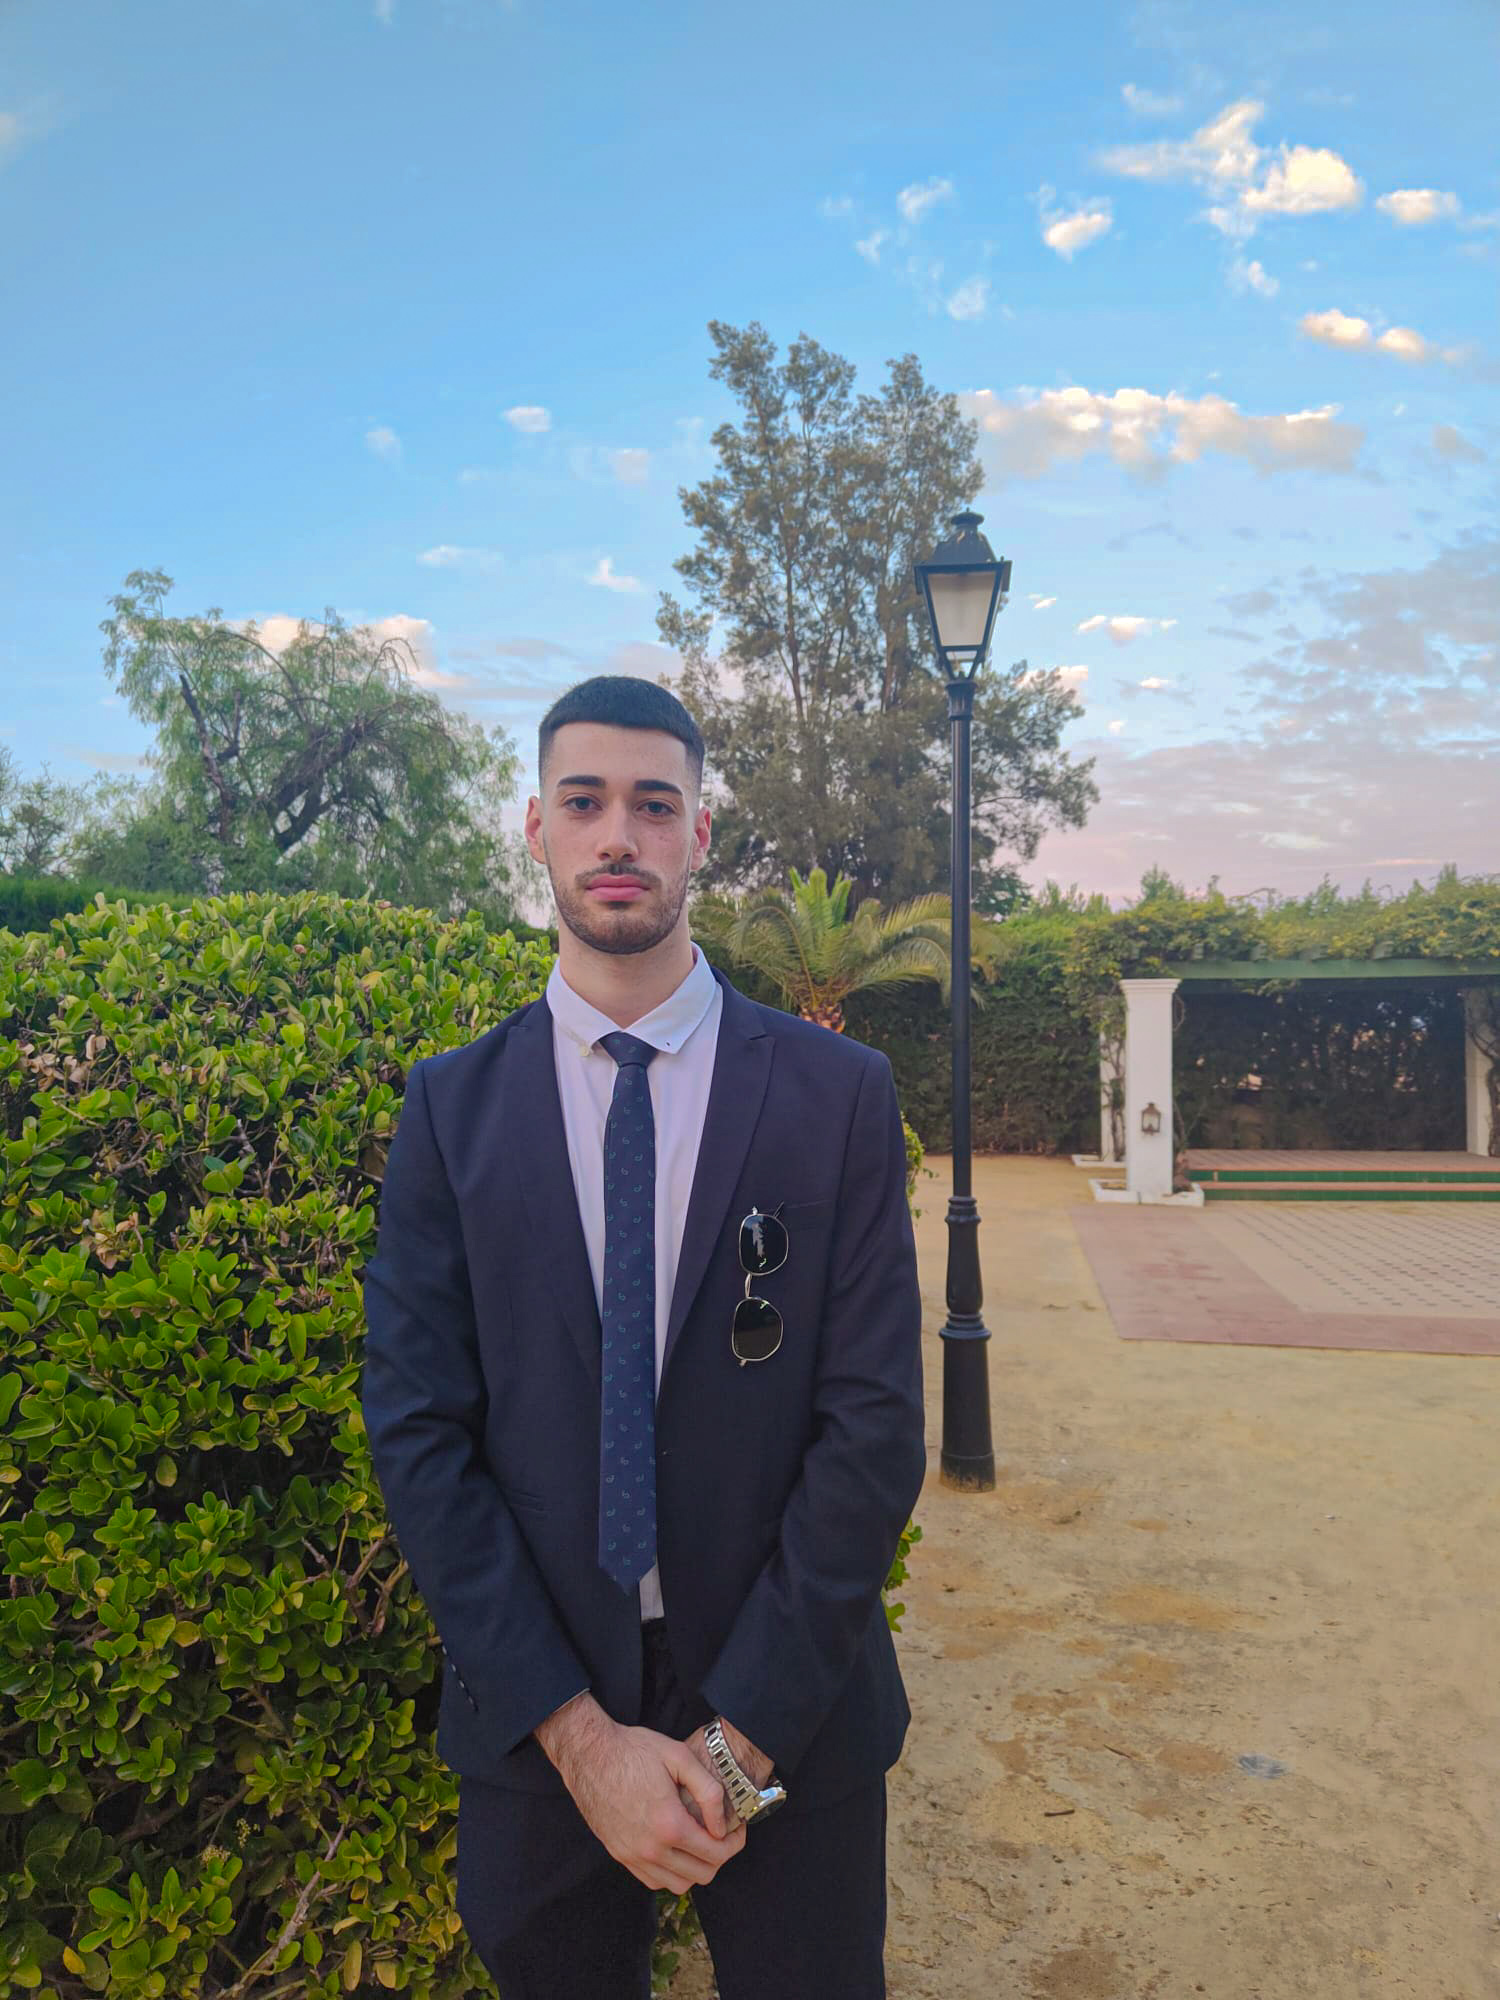
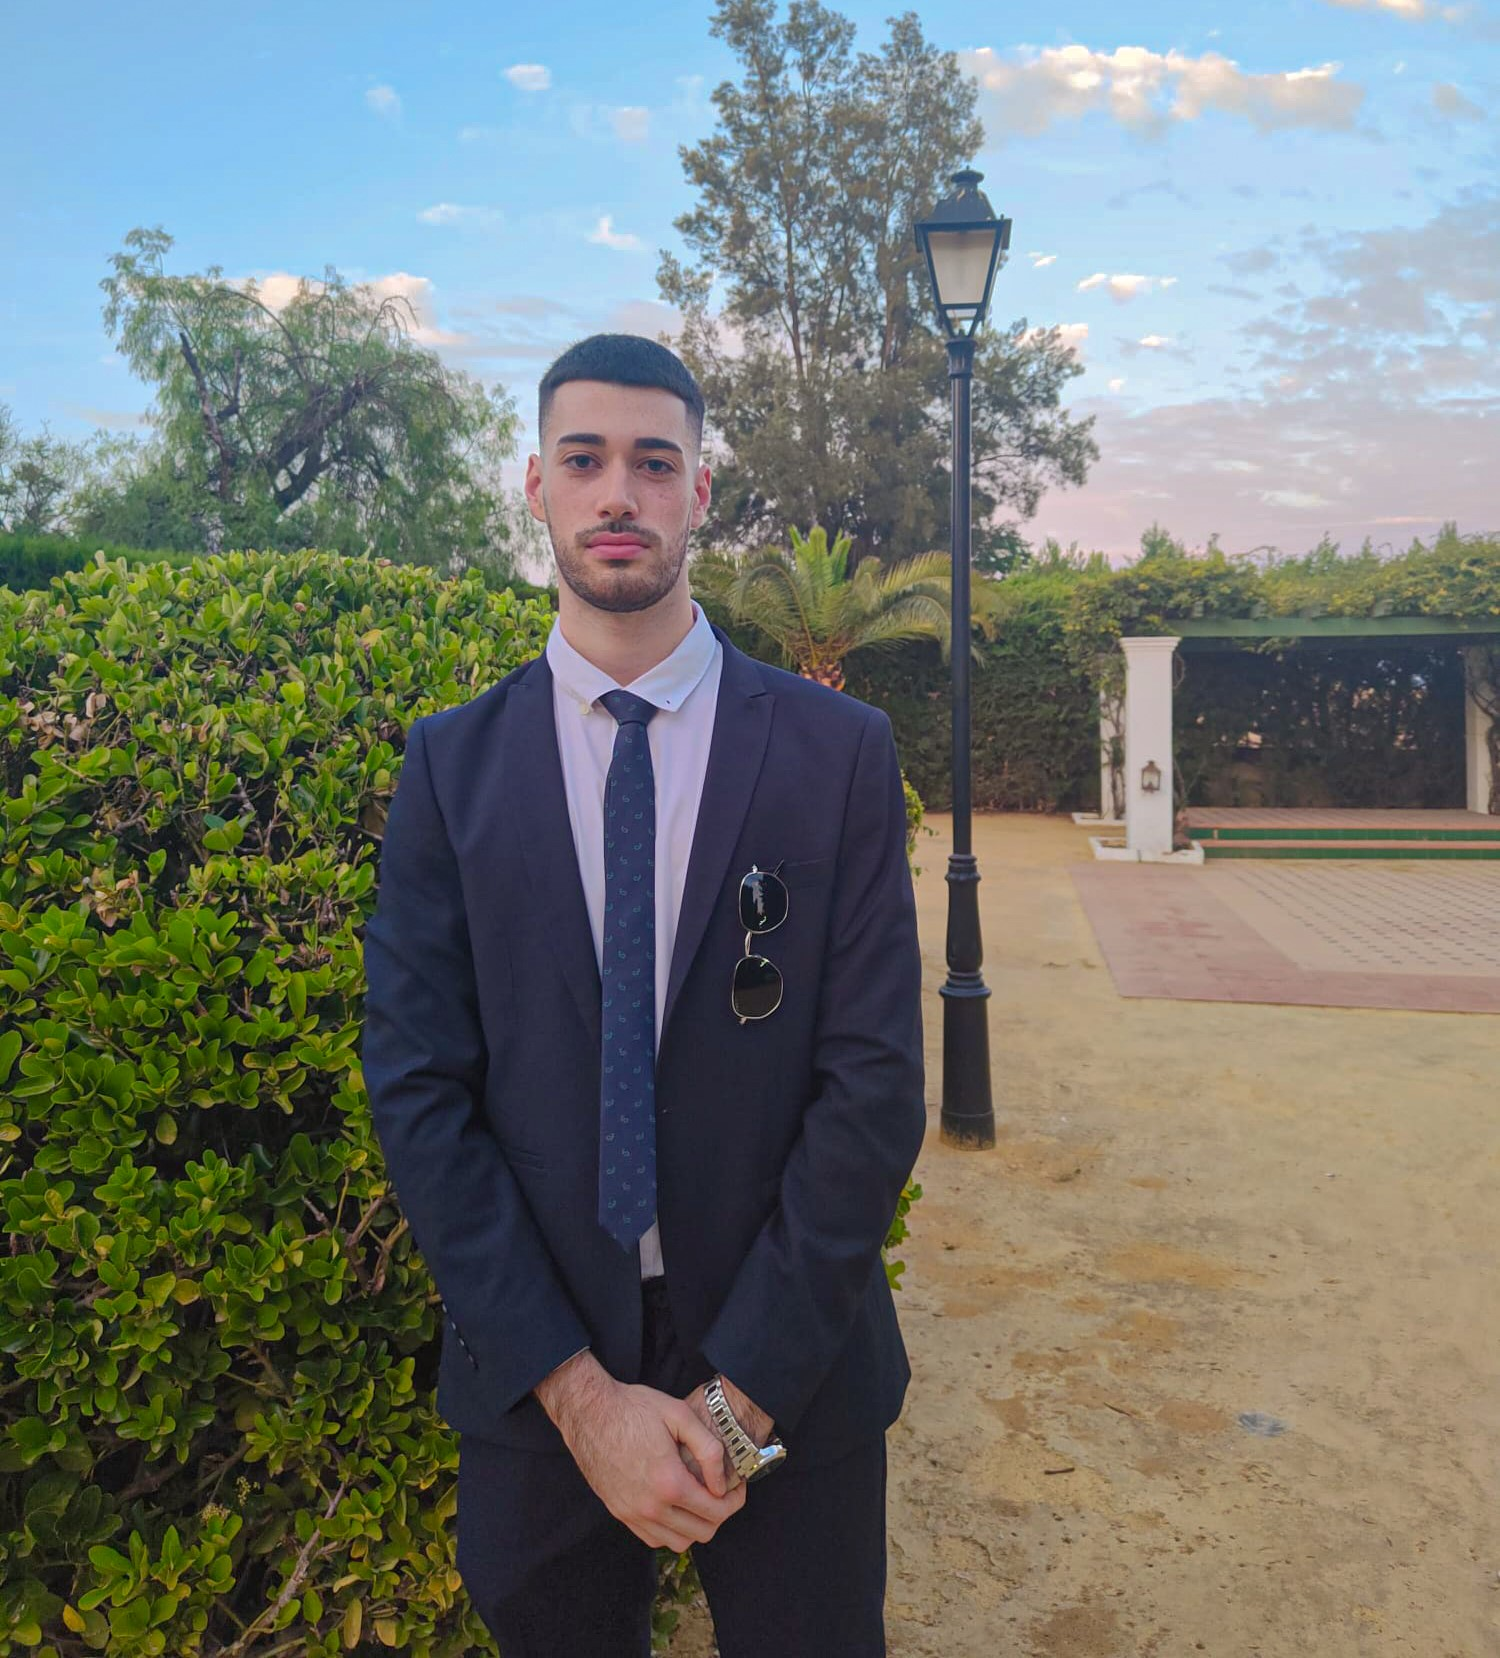
Tercer commit

diff --git a/Proyecto Final Lenguaje. Andrés López Barrera/gallery.html b/Proyecto Final Lenguaje. Andrés López Barrera/gallery.html
@@ -35,31 +35,31 @@
         <div class="row">
             <div class="col-md-4">
                 <div class="card">
-                    <img src="assets/images/project1.jpg" class="card-img-top" alt="Proyecto 1">
+                    <img src="recursos/ilernasnake.png" class="card-img-top img-fluid" alt="Proyecto 1">
                     <div class="card-body">
-                        <h5 class="card-title">Proyecto 1</h5>
-                        <p class="card-text">Descripción del Proyecto 1</p>
+                        <h5 class="card-title">Ilerna Snake</h5>
+                        <p class="card-text">Remasterización del clasico juego Snake realizado en Java.</p>
                         <a href="https://github.com/andreslopez00/Ilerna-Snake" class="btn btn-primary">Ver más</a>
                     </div>
                 </div>
             </div>
             <div class="col-md-4">
                 <div class="card">
-                    <img src="assets/images/project2.jpg" class="card-img-top" alt="Proyecto 2">
+                    <img src="recursos/Web-Juego.png" class="card-img-top img-fluid" alt="Proyecto 2">
                     <div class="card-body">
-                        <h5 class="card-title">Proyecto 2</h5>
-                        <p class="card-text">Descripción del Proyecto 2</p>
+                        <h5 class="card-title">Web Ilerna Snake</h5>
+                        <p class="card-text">Página Web personalizada para promocionar el juego Ilerna Snake</p>
                         <a href="https://github.com/andreslopez00/Web-Juego" class="btn btn-primary">Ver más</a>
                     </div>
                 </div>
             </div>
             <div class="col-md-4">
                 <div class="card">
-                    <img src="assets/images/project3.jpg" class="card-img-top" alt="Proyecto 3">
+                    <img src="recursos/valopsmusic.png" class="card-img-top img-fluid" alt="Proyecto 3">
                     <div class="card-body">
-                        <h5 class="card-title">Proyecto 3</h5>
-                        <p class="card-text">Descripción del Proyecto 3</p>
-                        <a href="https://github.com/tuusuario/proyecto3" class="btn btn-primary">Ver más</a>
+                        <h5 class="card-title">Valop´s Music</h5>
+                        <p class="card-text">Aplicación para la gestión de una tienda de instrumentos.</p>
+                        <a href="https://github.com/andreslopez00/Valop-s-Music" class="btn btn-primary">Ver más</a>
                     </div>
                 </div>
             </div>
@@ -81,21 +81,21 @@
             <tbody>
                 <tr>
                     <th scope="row">1</th>
-                    <td>Proyecto A</td>
-                    <td>Descripción del proyecto A</td>
-                    <td>Enero 2024</td>
+                    <td>Ilerna Snake</td>
+                    <td>Versión del clasico juego Snake, realizado en Java con interfaz gráfica.</td>
+                    <td>Marzo 2024</td>
                 </tr>
                 <tr>
                     <th scope="row">2</th>
-                    <td>Proyecto B</td>
-                    <td>Descripción del proyecto B</td>
-                    <td>Febrero 2024</td>
+                    <td>Web Ilerna Snake</td>
+                    <td>Página Web para la promoción del juego Ilerna Snake, realizada con HTML, CSS y JavaScript.</td>
+                    <td>Marzo 2024</td>
                 </tr>
                 <tr>
                     <th scope="row">3</th>
-                    <td>Proyecto C</td>
-                    <td>Descripción del proyecto C</td>
-                    <td>Marzo 2024</td>
+                    <td>Valop´s Music</td>
+                    <td>Programa realizado en Java para la gestion de una tienda de instrumentos musicales.</td>
+                    <td>Mayo 2024</td>
                 </tr>
             </tbody>
         </table>

diff --git a/Proyecto Final Lenguaje. Andrés López Barrera/aboutme.html b/Proyecto Final Lenguaje. Andrés López Barrera/aboutme.html
@@ -32,7 +32,7 @@
     <div class="container">
         <div class="row">
             <div class="col-md-6">
-                <img src="recursos/setup.jpg" alt="Sobre mí" class="img-fluid mb-4">
+                <img src="recursos/foto2.jpg" alt="Sobre mí" class="img-fluid mb-4">
             </div>
             <div class="col-md-6">
                 <h2 class="mb-3">Sobre mí</h2>

diff --git a/Proyecto Final Lenguaje. Andrés López Barrera/js/scripts.js b/Proyecto Final Lenguaje. Andrés López Barrera/js/scripts.js
@@ -21,7 +21,7 @@ document.addEventListener('DOMContentLoaded', function () {
     if (contactForm) {
         contactForm.addEventListener('submit', function (event) {
             if (!validateForm()) {
-                event.preventDefault(); // Evita que el formulario se envíe si la validación falla
+                event.preventDefault(); 
             }
         });
     }

diff --git a/Proyecto Final Lenguaje. Andrés López Barrera/index.html b/Proyecto Final Lenguaje. Andrés López Barrera/index.html
@@ -28,7 +28,6 @@
         </div>
     </nav>
     
-<!-- Hero Section -->
 <section id="hero" class="d-flex align-items-center justify-content-center text-center text-white py-5" style="background-color: #007bff;">
     <div class="container">
         <h1 class="display-4 mb-4">¡Bienvenido a mi Portfolio!</h1>

diff --git a/Proyecto Final Lenguaje. Andrés López Barrera/css/style.css b/Proyecto Final Lenguaje. Andrés López Barrera/css/style.css
@@ -20,3 +20,9 @@ footer {
     max-width: 100%;
     height: auto;
 }
+
+.card-img-top {
+    width: 100%;
+    height: 200px; 
+    object-fit: cover; 
+}
